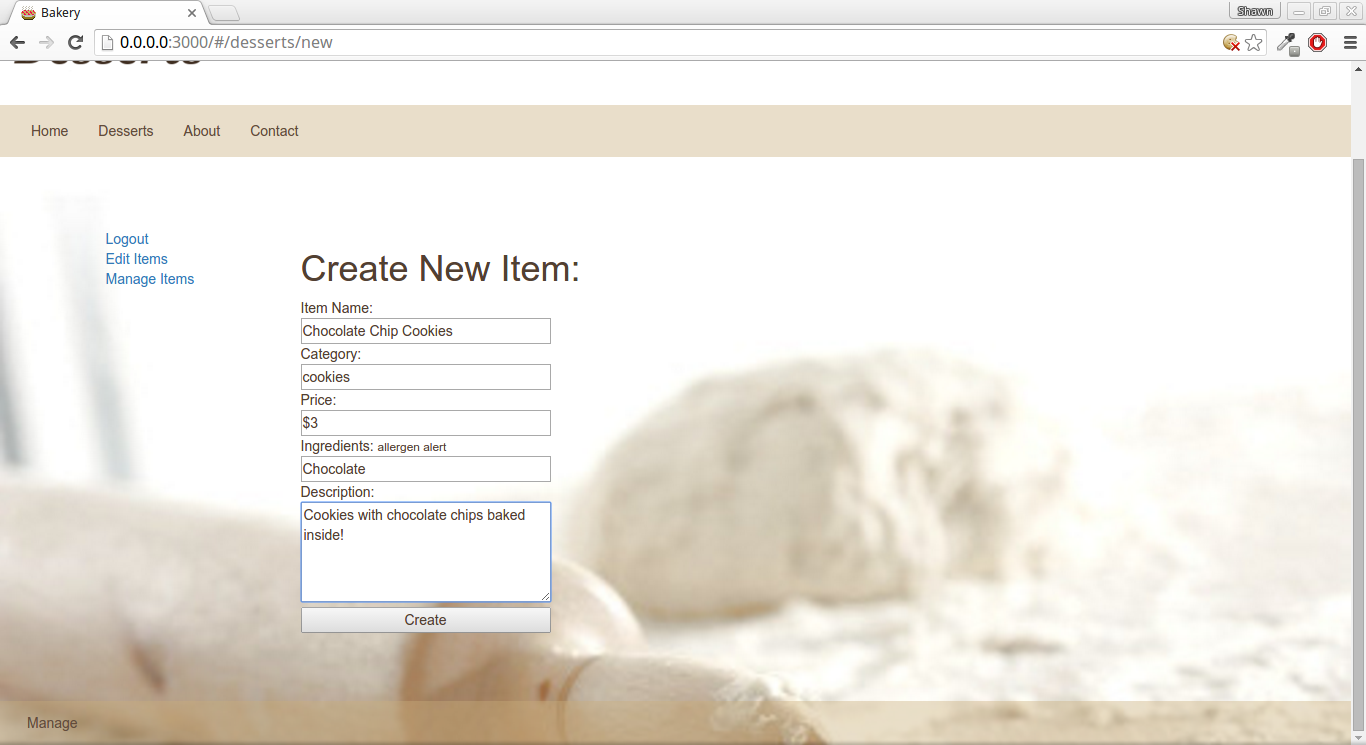
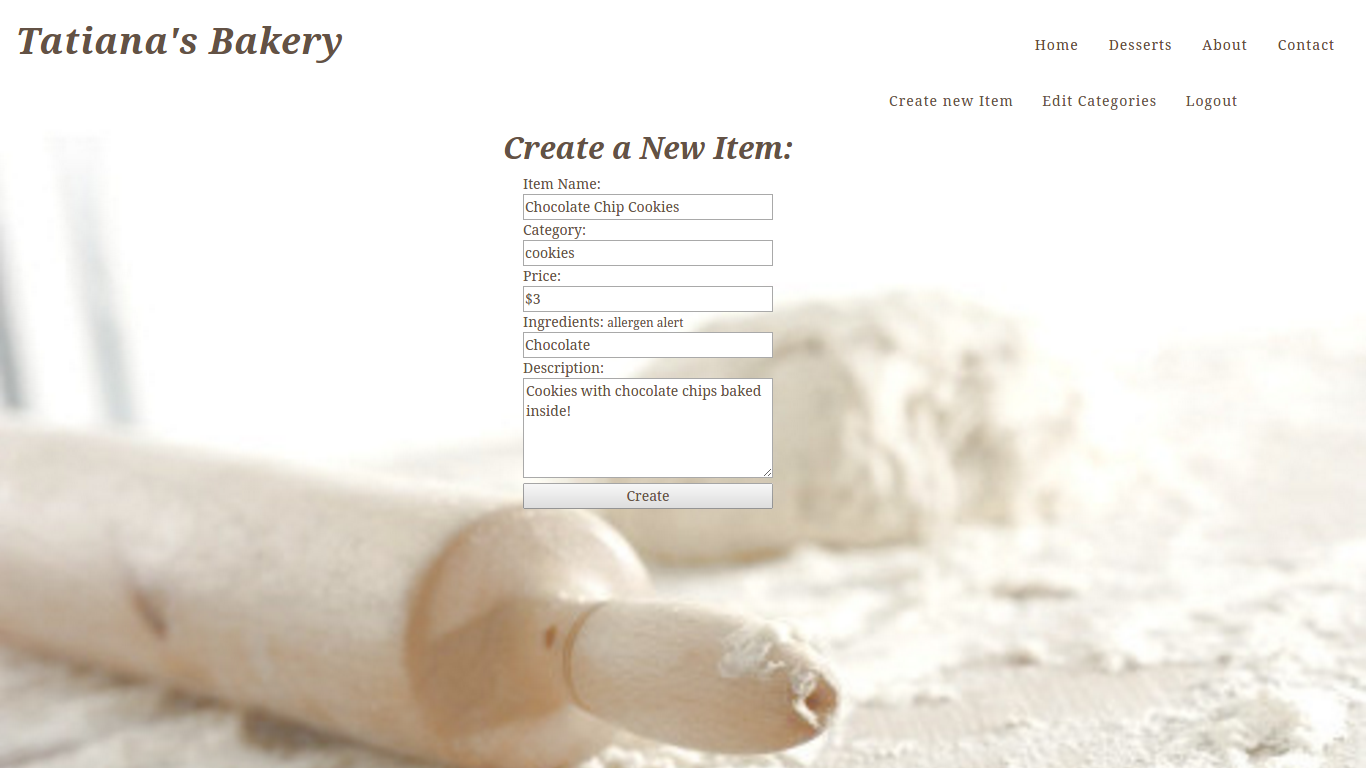
new README pitures, html/css changes
change link positioning in admin-navbar
css in create dessert page

diff --git a/public/templates/desserts/new.html b/public/templates/desserts/new.html
@@ -17,9 +17,9 @@
   <div class "row">
     <div class="col-sm-12">
       <div class="pull-right admin-nav" ng-controller="SessionCtrl">
-        <a href ="" role="presentation" ng-click="logOut()">Logout</a>
-        <a href="">Edit Items</a>
         <a href="#/desserts/new">Create new Item</a>
+        <a href="" ng-click="editDessert(dessert.id)">Edit Categories</a>
+        <a href="" role="presentation" ng-click="logOut()">Logout</a>
       </div>
     </div>
   </div>
@@ -27,7 +27,7 @@
     <div class="col-sm-4"></div>
     <div class="col-sm-8" ng-controller="DessertNewCtrl">
       <h2>Create a New Item:</h2>
-      <form ng-submit="createItem()">
+      <form class="shift-right" ng-submit="createItem()">
         Item Name:<br>
         <input type="text" name="name" ng-model ="item.name"><br>
         Category:<br>

diff --git a/public/templates/contact.html b/public/templates/contact.html
@@ -2,8 +2,7 @@
   <div class="container-fluid">
     <div class="navbar-header">
       <h1>Tatiana's Bakery</h1>
-    </div>
-  
+    </div> 
     <div class="collapse navbar-collapse" id="bs-example-navbar-collapse-1"> 
       <ul id="nav-links" class="nav navbar-nav navbar-right">
         <li><a href="#">Home</a></li>
@@ -14,12 +13,11 @@
     </div>
   </div>
 </nav>
-
 <div class="container">
   <h1>Contact</h1>
   <div class="jumbotron">
     <div class="row">
-      <div class="col-sm-7">
+      <div class="col-sm-7 pale-background">
         <p>
           Feel free to contact us at any time at <a href="mailto:Contact@TatianasDesserts.com">Contact@TatianasDesserts.com</a>
         </p>

diff --git a/public/templates/desserts/index.html b/public/templates/desserts/index.html
@@ -3,7 +3,6 @@
     <div class="navbar-header">
       <h1>Tatiana's Bakery</h1>
     </div>
-
     <div class="collapse navbar-collapse" id="bs-example-navbar-collapse-1">
       <div id="dropdown-sort" class="dropdown navbar-right">
         Sort by:
@@ -34,7 +33,7 @@
       <div class="clearfix" ng-if="$index % 3 == 0"></div>
       <div class="col-sm-4">
         <center>
-          <a ng-click="viewDessert(dessert.name)" class="nav-link">
+          <a ng-click="viewDessert(dessert.name)" class="nav-link clickable">
             <img class="sample-image" ng-src="{{dessert.main_pic}}">
             {{ dessert.name }}
           </a>

diff --git a/public/templates/sessions/console.html b/public/templates/sessions/console.html
@@ -18,9 +18,9 @@
     <div class="col-sm-1"></div>
     <div class="col-sm-10 pale-background">
     <div class="pull-right admin-nav" ng-controller="SessionCtrl">
-      <a href ="" role="presentation" ng-click="logOut()">Logout</a>
-      <a href="">Edit Items</a>
       <a href="#/desserts/new">Create new Item</a>
+      <a href="" ng-click="editDessert(dessert.id)">Edit Categories</a>
+      <a href="" role="presentation" ng-click="logOut()">Logout</a>
     </div>
       <h2>Admin Console</h2>
       <ul class="list-group">

diff --git a/public/templates/admins/desserts/show.html b/public/templates/admins/desserts/show.html
@@ -16,9 +16,9 @@
 <div class="container">
   <div class="row">
     <div class="pull-right admin-nav" ng-controller="SessionCtrl">
-      <a href ="" role="presentation" ng-click="logOut()">Logout</a>
-      <a ng-click="editDessert(dessert.id)">Edit Items</a>
       <a href="#/desserts/new">Create new Item</a>
+      <a href="" ng-click="editDessert(dessert.id)">Edit Items</a>
+      <a href="" role="presentation" ng-click="logOut()">Logout</a>
     </div>
   </div>
   <div class="row">

diff --git a/public/templates/admins/desserts/edit.html b/public/templates/admins/desserts/edit.html
@@ -15,8 +15,8 @@
 </nav>
 <div class="container">
   <div class="pull-right admin-nav" ng-controller="SessionCtrl">
-    <a href ="" role="presentation" ng-click="logOut()">Logout</a>
-    <a ng-click="editDessert(dessert.id)">Edit Items</a>
+    <a href="" role="presentation" ng-click="logOut()">Logout</a>
+    <a href="" ng-click="editDessert(dessert.id)">Edit Items</a>
     <a href="#/desserts/new">Create new Item</a>
   </div>
   <h2>Edit Item:</h2>
